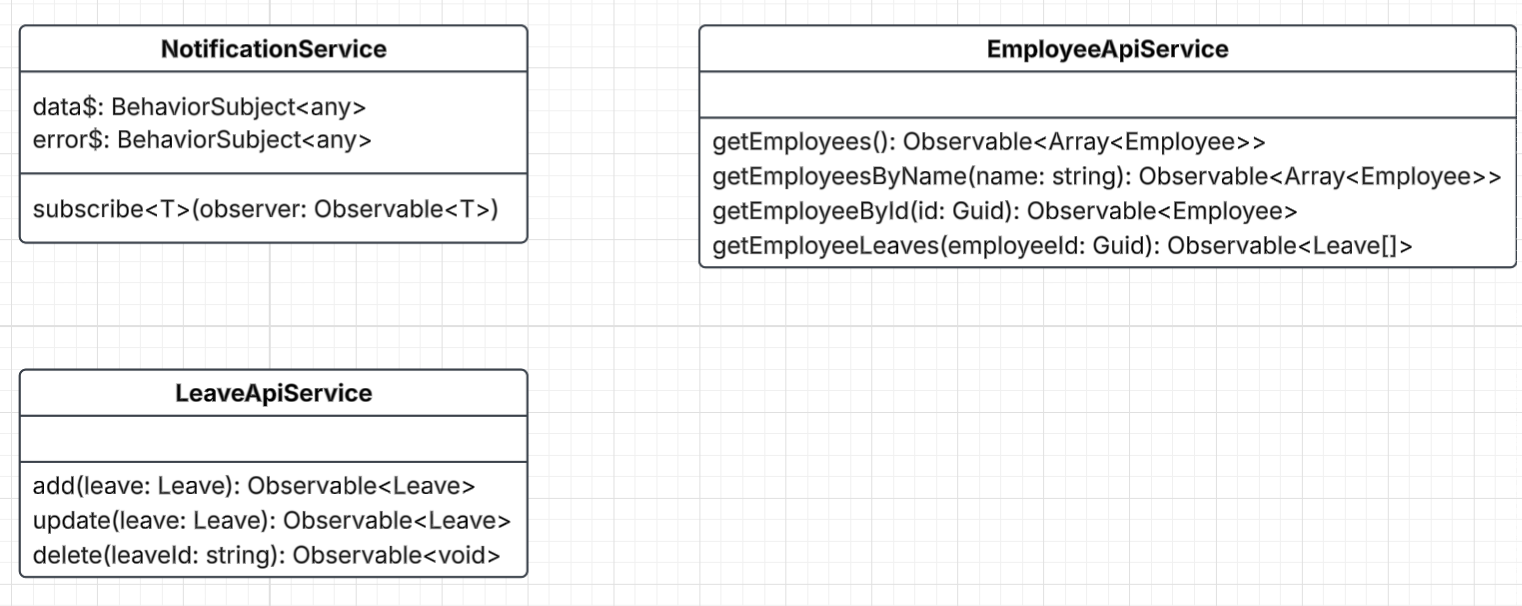
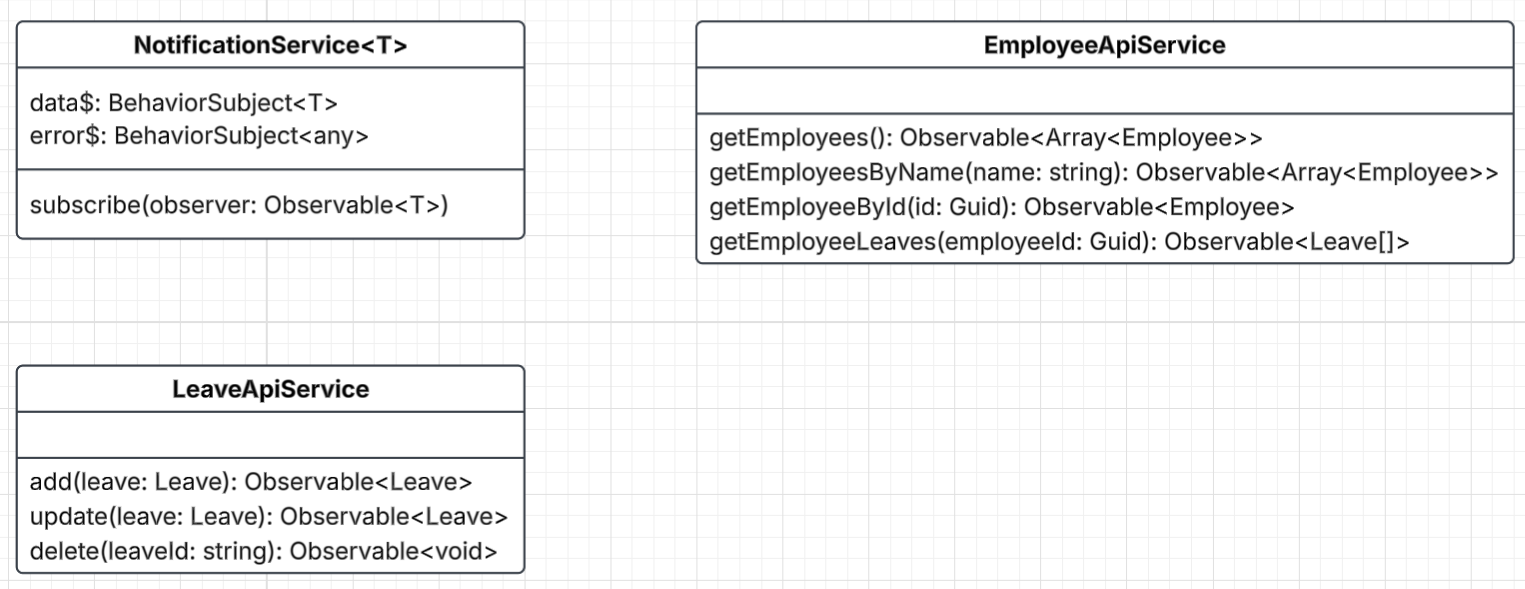
improved notification service.

diff --git a/Vypex.CodingChallenge.Frontend/src/app/employees/edit-employee/edit-employee.component.ts b/Vypex.CodingChallenge.Frontend/src/app/employees/edit-employee/edit-employee.component.ts
@@ -40,8 +40,8 @@ export class EditEmployeeComponent implements OnInit {
   private readonly modalData = inject<EditEmployeeBindings>(NZ_MODAL_DATA);
   private readonly fb = inject(FormBuilder);
 
-  private readonly notificationService = inject(NotificationService);
-  private readonly leaveNotificationService = inject(NotificationService);
+  private readonly notificationService = inject(NotificationService<Leave[]>);
+  private readonly leaveNotificationService = inject(NotificationService<Leave | void>);
 
   private readonly employeeApiService = inject(EmployeeApiService);
   private readonly leaveApiService = inject(LeaveApiService);
@@ -120,7 +120,7 @@ export class EditEmployeeComponent implements OnInit {
   }
 
   resetLeave() {
-    this.leave$.next(null); // Reset leave state.
+    this.leave$.next(null as unknown as Leave); // Reset leave state.
     this.leaveError$.next(null); // Reset leave error state.
   }
 

diff --git a/Vypex.CodingChallenge.Frontend/src/app/employees/services/notification.service.ts b/Vypex.CodingChallenge.Frontend/src/app/employees/services/notification.service.ts
@@ -2,12 +2,12 @@ import { Injectable } from '@angular/core';
 import { BehaviorSubject, Observable } from 'rxjs';
 
 @Injectable({ providedIn: null })
-export class NotificationService {
+export class NotificationService<T> {
 
-    public data$: BehaviorSubject<any> = new BehaviorSubject<any>(null);
+    public data$: BehaviorSubject<T> = new BehaviorSubject<T>(<T>{});
     public error$: BehaviorSubject<any> = new BehaviorSubject<any>(null);
 
-    public subscribe<T>(observer: Observable<T>) {
+    public subscribe(observer: Observable<T>) {
         observer.subscribe({
             next: (data) => {
                 console.log('Data loaded successfully', data);

diff --git a/Vypex.CodingChallenge.Frontend/src/app/employees/employees.component.ts b/Vypex.CodingChallenge.Frontend/src/app/employees/employees.component.ts
@@ -26,7 +26,7 @@ import { NotificationService } from './services/notification.service';
   styleUrl: './employees.component.scss'
 })
 export class EmployeesComponent implements OnInit {
-  private readonly notificationService = inject(NotificationService);
+  private readonly notificationService = inject(NotificationService<Employee[]>);
   private readonly employeeApiService = inject(EmployeeApiService);
   private readonly editEmployeeModal = inject(EditEmployeeModal);
 
